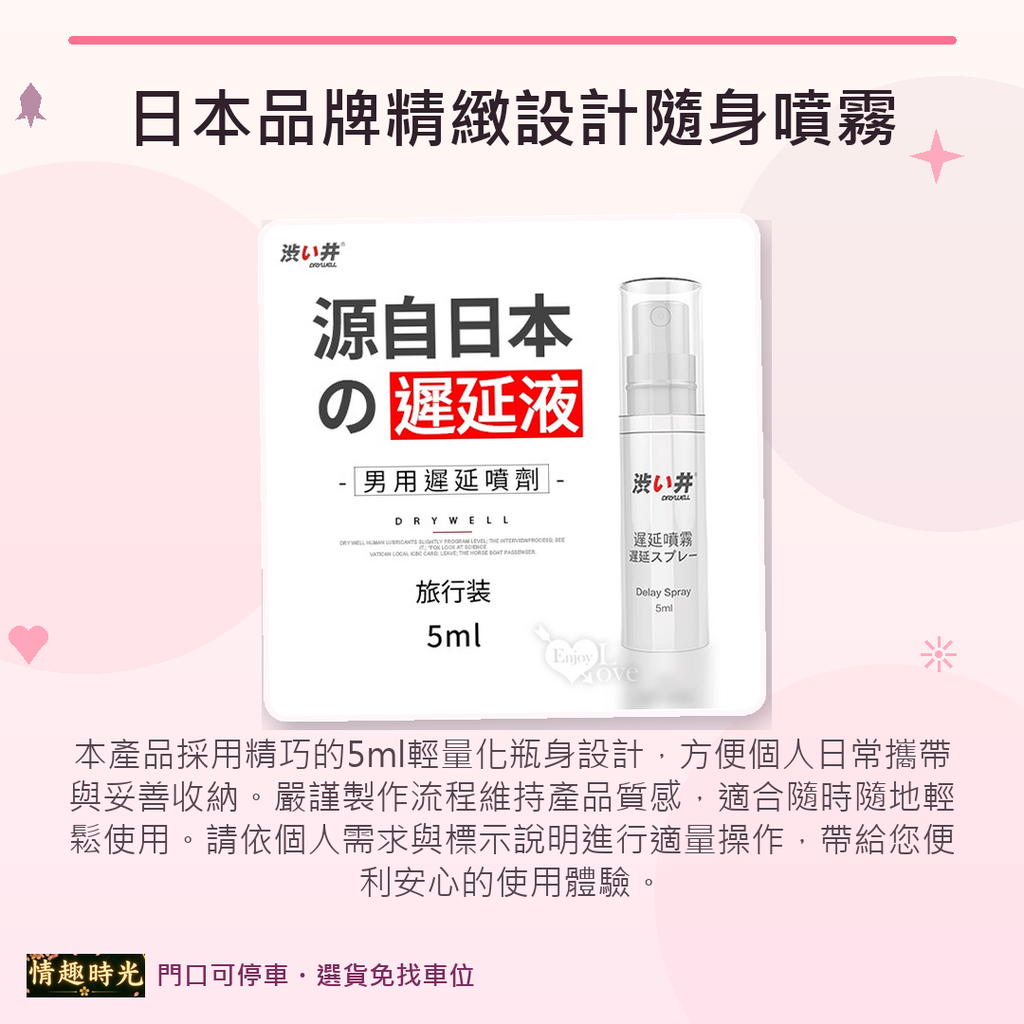
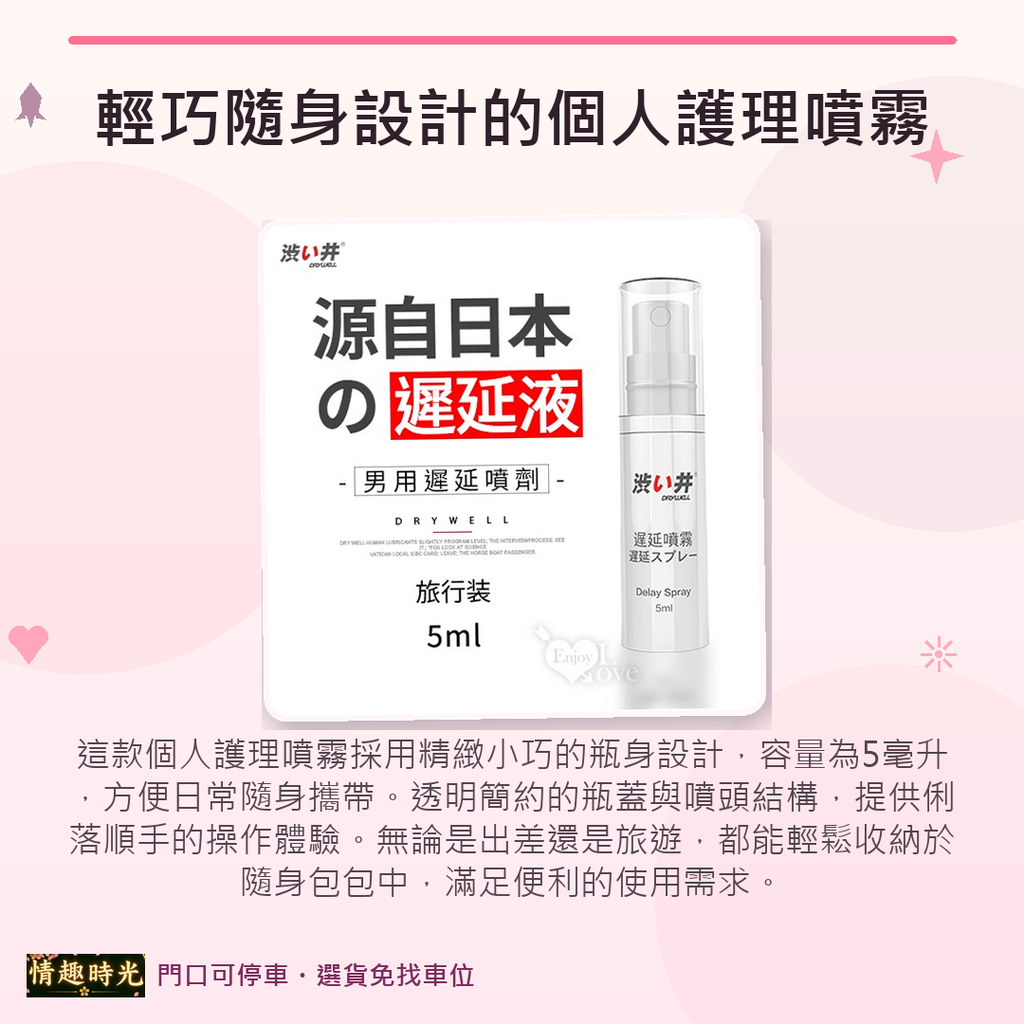
更新網站 2026-08-16 07:50

Changed region(s): [[0.0625, 0.7188, 0.9375, 0.875], [0.0938, 0.0625, 0.9062, 0.1562]]

diff --git a/images/products/catalog.js b/images/products/catalog.js
@@ -10,22 +10,30 @@ window.PRODUCT_CATALOG = {
             "images": [
                 {
                     "path": "images/products/20260815-01/01.png",
-                    "alt": "請填寫商品名稱。－日本品牌精緻設計隨身噴霧"
+                    "alt": "請填寫商品名稱。－輕巧隨身設計的個人護理噴霧"
                 },
                 {
                     "path": "images/products/20260815-01/02.png",
-                    "alt": "請填寫商品名稱。－溫和調配成分與透明液體質地"
+                    "alt": "請填寫商品名稱。－經專業檢驗認證的品質把關"
                 },
                 {
                     "path": "images/products/20260815-01/03.png",
-                    "alt": "請填寫商品名稱。－通過多項安全檢測與專業認證"
+                    "alt": "請填寫商品名稱。－清晰規格與溫和液體配方"
                 },
                 {
                     "path": "images/products/20260815-01/04.png",
-                    "alt": "請填寫商品名稱。－專業品牌打造個人護理選擇"
+                    "alt": "請填寫商品名稱。－多元安全認證與實用問答說明"
                 },
                 {
                     "path": "images/products/20260815-01/05.png",
+                    "alt": "請填寫商品名稱。－知名品牌打造的優質護理選擇"
+                },
+                {
+                    "path": "images/products/20260815-01/06.png",
+                    "alt": "請填寫商品名稱。－嚴選多元植物萃取與保濕成分"
+                },
+                {
+                    "path": "images/products/20260815-01/07.png",
                     "alt": "請填寫商品名稱。－商品資訊總覽"
                 }
             ]
